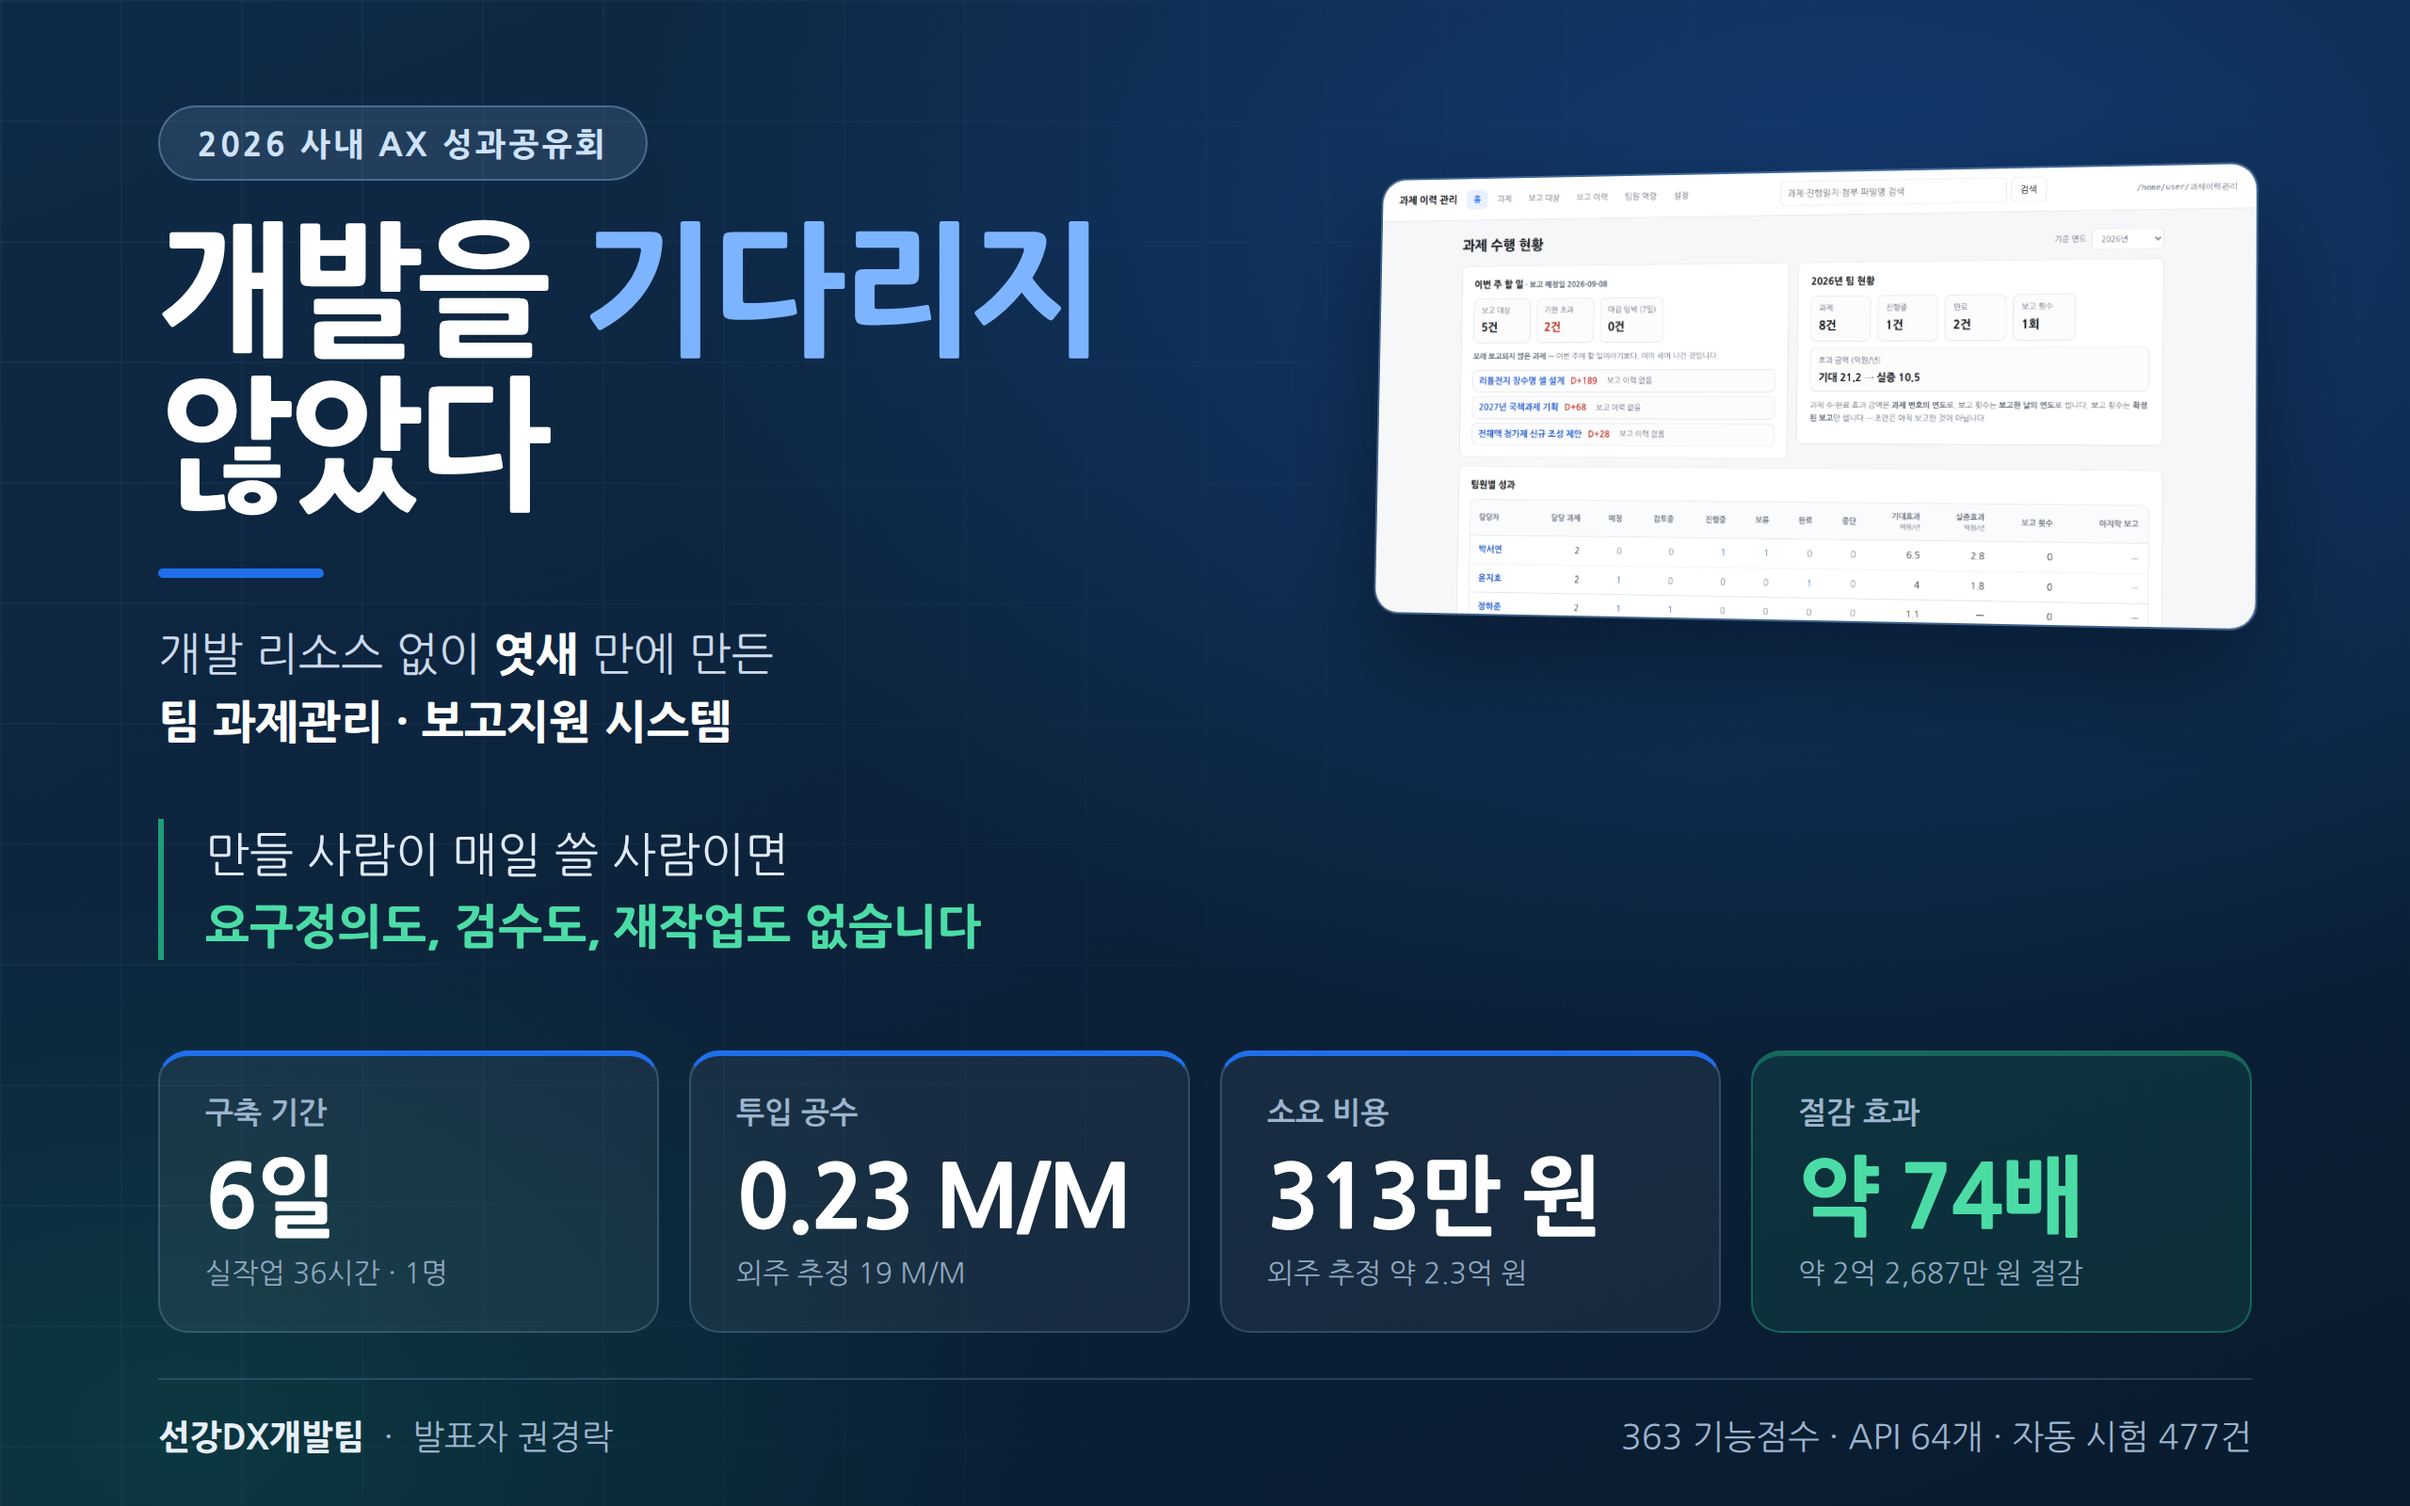
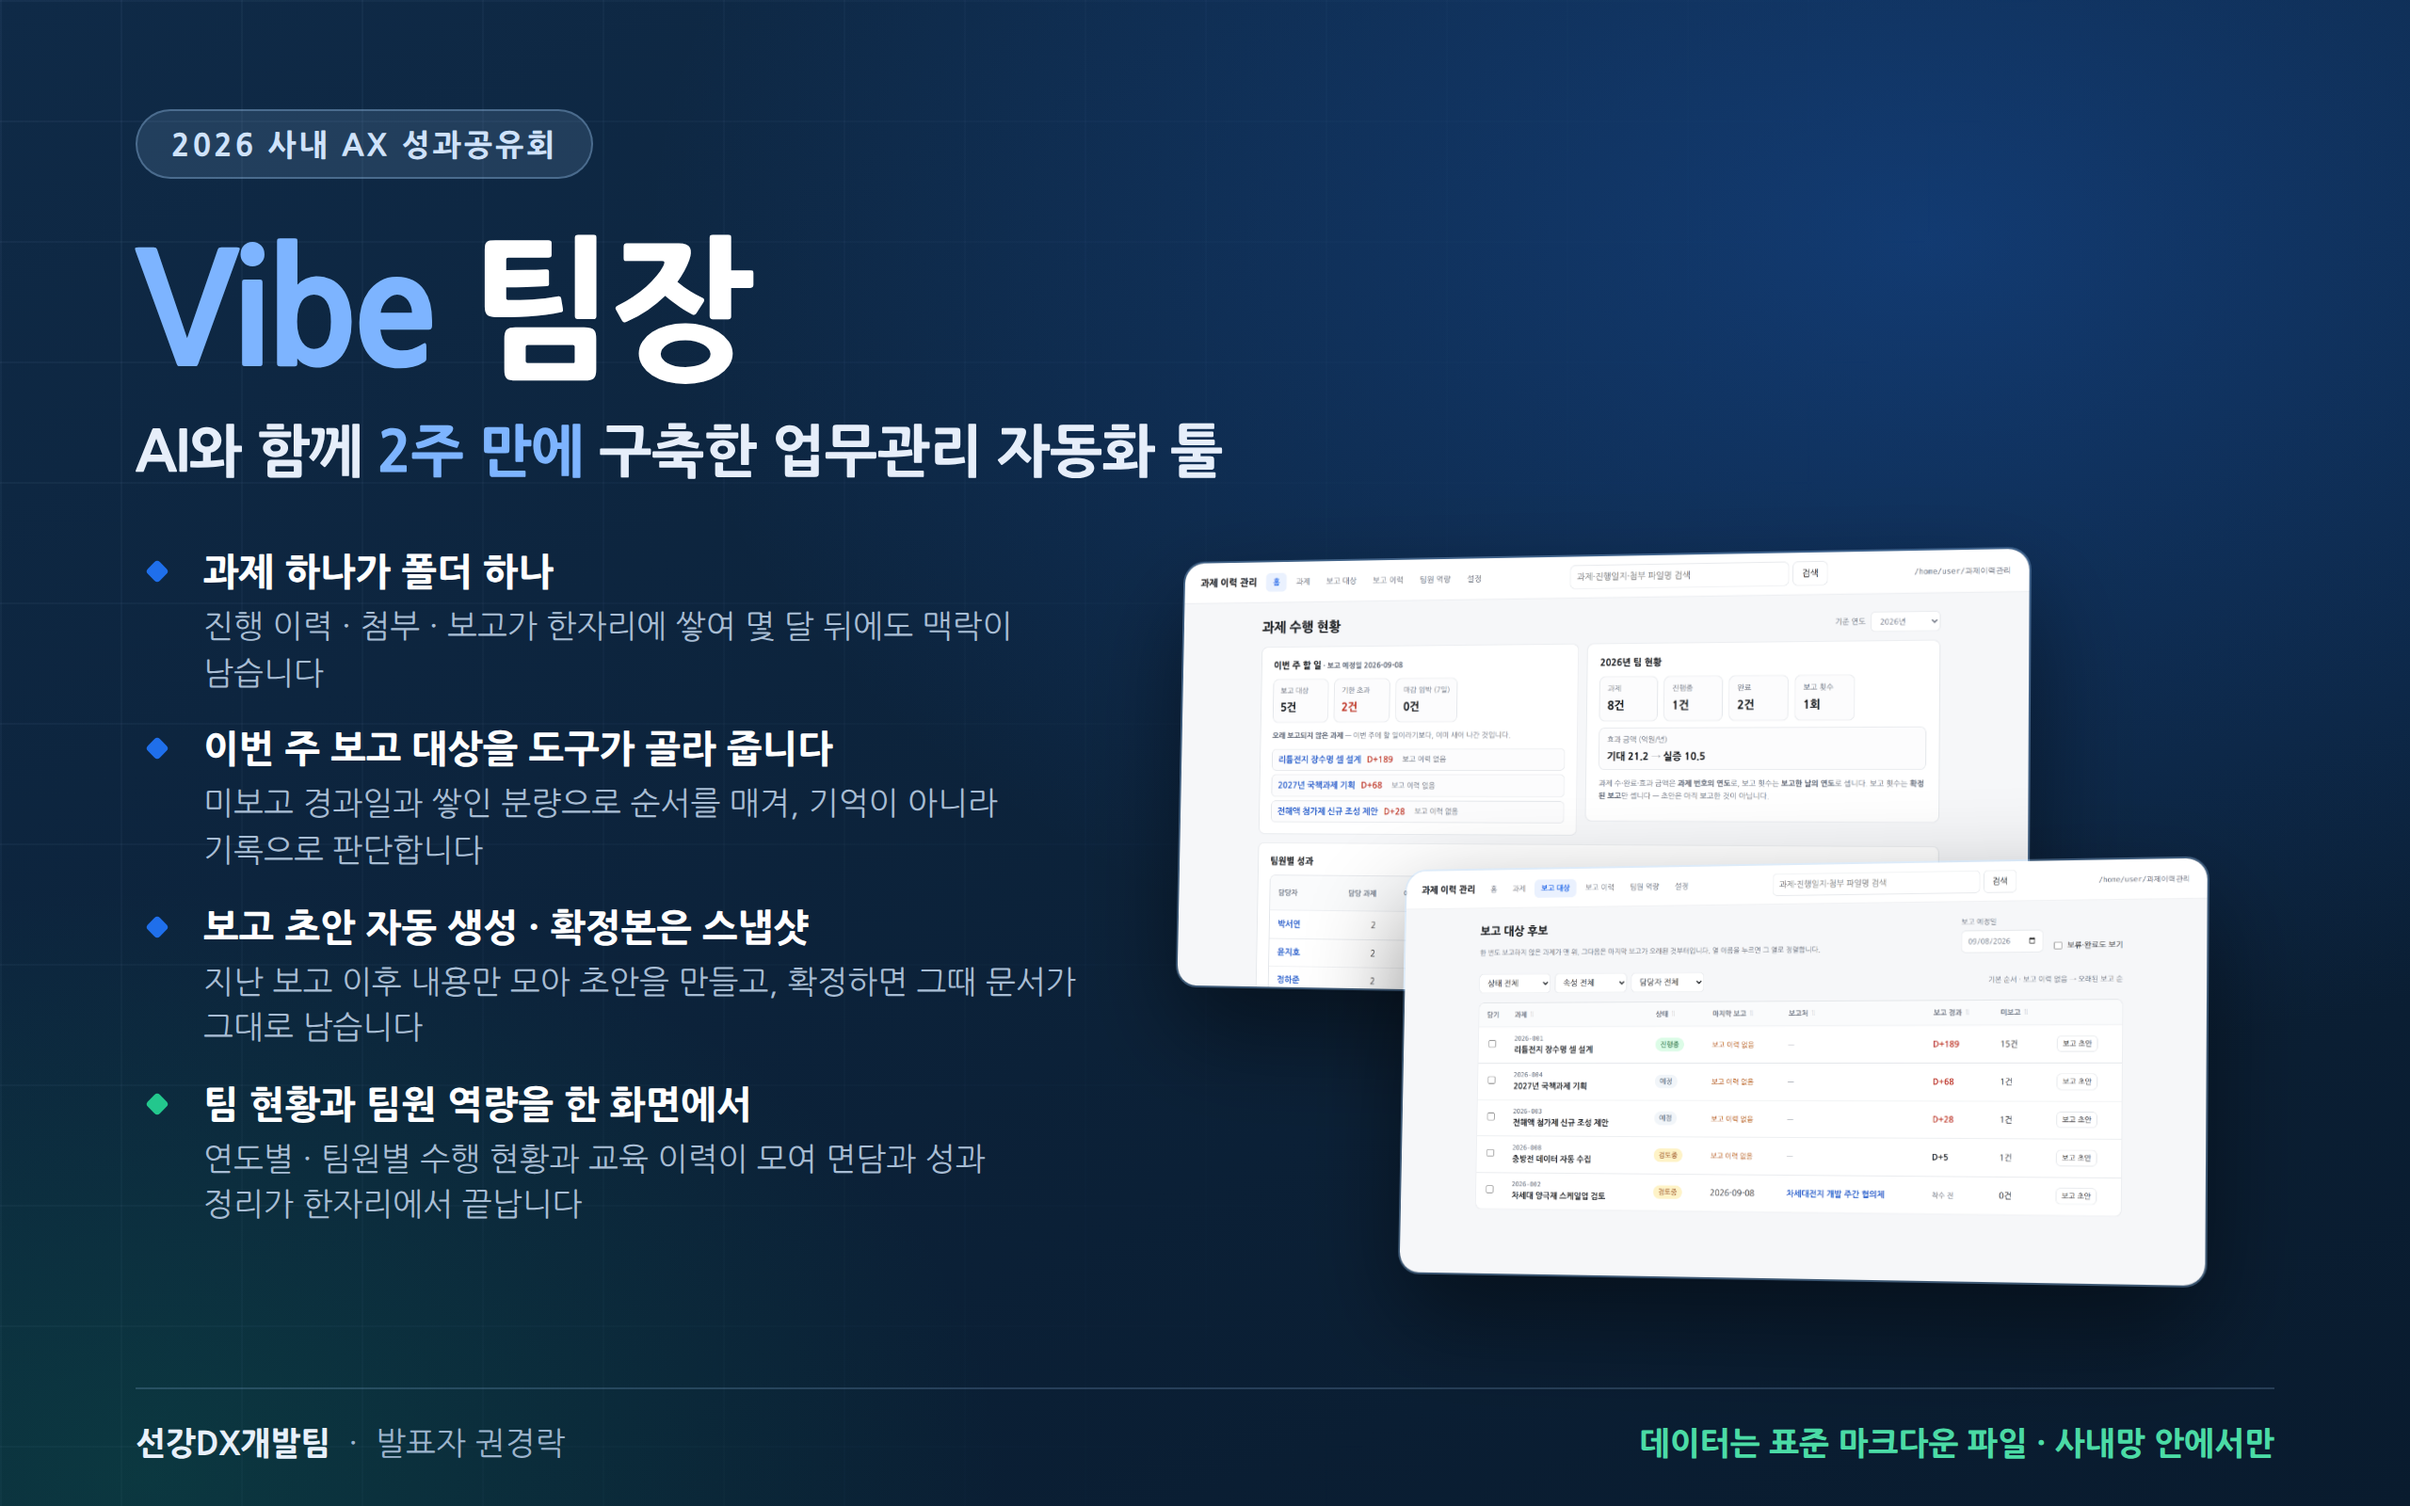
docs: 썸네일을 과제명·기능 중심으로 다시 만듦
발표자 요청 셋을 반영했다.

* 과제명을 "Vibe 팀장 : AI와 함께 2주 만에 구축한 업무관리 자동화 툴" 로.
  한 줄로 늘어놓으면 작게 줄였을 때 아무것도 읽히지 않아 두 층으로 나눴다 —
  "Vibe 팀장" 을 크게, 나머지를 그 아래 한 줄로. 두 줄로 나뉜 것 자체가 구분이라
  가운데 콜론은 뺐다(글자 크기가 커지면 홀로 떠 보인다).
* 수치 네 칸을 빼고 **구현 기능과 그래서 무엇이 달라지는가**를 네 줄로 적었다.
  포스터와 영상이 이미 숫자를 맡고 있고, 표지에서까지 수치가 앞서면
  무엇을 만들었는지가 뒤로 밀린다.
* 화면 갈무리를 둘로 — 홈(팀 수행 현황)과 보고 대상 후보를 앞뒤로 겹쳐 놓아
  "여러 화면이 있다"가 한눈에 보이게 했다. 겹치면 가려지는 설명 띠는 뺐다.

제목의 "2주"는 포스터·영상의 "엿새"와 다르다 — 발표자가 정한 과제명을 그대로 썼다.
맞추려면 thumbnail.html 의 .lede 한 줄만 고치면 된다는 것을 README 에 적어 두었다.

Claude-Session: https://claude.ai/code/session_01KbrZ6oT8PUdhoJBZtSNehr

diff --git a/docs/poster/thumbnail.html b/docs/poster/thumbnail.html
@@ -1,15 +1,14 @@
 <!-- AX 성과공유회 썸네일 (16:10). make_thumbnail.py 가 이 파일을 열어 갈무리한다. -->
 <meta charset="utf-8">
 <style>
-  @font-face { font-family: "Nanum"; src: local("NanumGothic"); }
   * { margin: 0; padding: 0; box-sizing: border-box; }
   body {
     width: 1280px; height: 800px; overflow: hidden;
     font-family: "NanumGothic", "맑은 고딕", "Malgun Gothic", sans-serif;
     color: #fff;
     background:
-      radial-gradient(1100px 700px at 78% 18%, rgba(31,111,235,.30), transparent 62%),
-      radial-gradient(760px 520px at 8% 96%, rgba(11,138,95,.22), transparent 60%),
+      radial-gradient(1100px 700px at 80% 16%, rgba(31,111,235,.30), transparent 62%),
+      radial-gradient(760px 520px at 6% 98%, rgba(11,138,95,.22), transparent 60%),
       linear-gradient(158deg, #0f2a47 0%, #091b2e 100%);
     position: relative;
   }
@@ -21,87 +20,103 @@
     background-size: 64px 64px;
     mask-image: linear-gradient(115deg, #000 0%, transparent 68%);
   }
-  .wrap { position: relative; padding: 66px 84px 0; height: 100%; display: flex; flex-direction: column; }
-  .top { display: flex; gap: 44px; align-items: flex-start; }
-  .left { width: 53%; flex: none; }
-  /* 오른쪽에 실제 화면을 놓는다 — 표지에서 "무엇을 만들었는지"가 한눈에 보여야 한다 */
-  .shot {
-    flex: 1; margin-top: 24px;
-    border-radius: 14px; overflow: hidden;
-    border: 1px solid rgba(156,195,238,.34);
-    box-shadow: 0 26px 60px rgba(0,0,0,.42);
-    transform: perspective(1400px) rotateY(-13deg) rotateX(3deg);
-  }
-  .shot img { display: block; width: 100%; }
+  .wrap { position: relative; height: 100%; padding: 58px 72px 0; display: flex; flex-direction: column; }
 
   .kicker {
     align-self: flex-start;
-    font-size: 17px; letter-spacing: .10em; font-weight: 700;
+    font-size: 16px; letter-spacing: .10em; font-weight: 700;
     color: #cfe2fa; background: rgba(156,195,238,.14);
     border: 1px solid rgba(156,195,238,.34);
-    padding: 9px 20px; border-radius: 999px;
+    padding: 8px 18px; border-radius: 999px;
   }
-  /* 한글은 단어 안에서 끊으면 읽기가 나빠진다 — keep-all 로 어절을 지킨다 */
-  h1 { font-size: 76px; font-weight: 800; letter-spacing: -.035em; line-height: 1.08;
-       margin-top: 26px; word-break: keep-all; }
-  h1 .accent { color: #7db4ff; }
-  .rule { width: 88px; height: 5px; background: #1f6feb; border-radius: 3px; margin: 26px 0 22px; }
-  .sub { font-size: 24px; line-height: 1.5; color: #cbd9ea; font-weight: 400; }
-  .sub b { color: #fff; font-weight: 700; }
 
-  /* 표지에서 딱 한 문장만 기억된다면 이것이어야 한다 */
-  .quote {
-    margin-top: 34px; padding-left: 22px;
-    border-left: 3px solid rgba(35,199,141,.75);
-    font-size: 25px; line-height: 1.5; color: #dfe9f5; font-weight: 400;
-    word-break: keep-all;
+  /* 제목은 두 층으로 나눈다 — 한 줄로 길게 늘어놓으면 작게 줄였을 때 아무것도 안 읽힌다 */
+  h1 { font-size: 82px; font-weight: 800; letter-spacing: -.035em; line-height: 1.0; margin-top: 26px; }
+  h1 .vibe { color: #7db4ff; }
+  .lede {
+    font-size: 30px; font-weight: 700; color: #e6eefa; margin-top: 18px;
+    letter-spacing: -.01em; word-break: keep-all;
   }
-  .quote b { color: #4bdca6; font-weight: 700; }
+  .lede b { color: #7db4ff; }
 
-  .stats { display: flex; gap: 16px; margin-top: auto; margin-bottom: 24px; }
-  .stat {
-    flex: 1; padding: 20px 24px 22px;
-    background: rgba(255,255,255,.055); border: 1px solid rgba(156,195,238,.22);
-    border-radius: 16px; border-top: 3px solid #1f6feb;
+  .body { display: flex; gap: 40px; margin-top: 34px; flex: 1; }
+
+  /* 왼쪽 — 무엇을 만들었고 무엇이 달라지는가 */
+  .points { width: 44%; flex: none; display: flex; flex-direction: column; gap: 15px; }
+  .point { display: grid; grid-template-columns: 24px 1fr; gap: 12px; align-items: start; }
+  .point::before {
+    content: ""; width: 9px; height: 9px; margin: 9px 0 0 7px;
+    border-radius: 2px; background: #1f6feb; transform: rotate(45deg);
   }
-  .stat.hi { border-top-color: #23c78d; background: rgba(35,199,141,.11); border-color: rgba(35,199,141,.36); }
-  .stat .label { font-size: 16px; color: #9db4cd; font-weight: 600; }
-  .stat .value { font-size: 46px; font-weight: 800; letter-spacing: -.02em; margin-top: 8px; }
-  .stat.hi .value { color: #4bdca6; }
-  .stat .note { font-size: 15px; color: #8fa6bf; margin-top: 7px; }
+  .point.good::before { background: #23c78d; }
+  .point .what { font-size: 20px; font-weight: 700; color: #fff; line-height: 1.35; word-break: keep-all; }
+  .point .so { font-size: 17px; color: #a8bdd4; line-height: 1.45; margin-top: 3px; word-break: keep-all; }
+
+  /* 오른쪽 — 실제 화면 두 장. 앞뒤로 겹쳐 놓아 "여러 화면이 있다"가 한눈에 보이게 */
+  .shots { flex: 1; position: relative; }
+  .shot {
+    position: absolute; border-radius: 12px; overflow: hidden;
+    border: 1px solid rgba(156,195,238,.34);
+    box-shadow: 0 24px 56px rgba(0,0,0,.46);
+  }
+  .shot img { display: block; width: 100%; }
+  .shot-a { top: 4px;   left: 0;   width: 78%; transform: perspective(1600px) rotateY(-14deg) rotateX(3deg); }
+  .shot-b { top: 168px; left: 20%; width: 74%; transform: perspective(1600px) rotateY(-14deg) rotateX(3deg); }
 
   .foot {
+    margin-top: auto;
     display: flex; align-items: center; justify-content: space-between;
-    padding: 20px 0 26px; border-top: 1px solid rgba(156,195,238,.20);
-    font-size: 18px; color: #9db4cd;
+    padding: 18px 0 24px; border-top: 1px solid rgba(156,195,238,.20);
+    font-size: 17px; color: #9db4cd;
   }
   .foot b { color: #e8f0fa; font-weight: 700; }
+  .foot .tag { color: #4bdca6; font-weight: 700; }
 </style>
 <div class="wrap">
-  <div class="top">
-    <div class="left">
-      <span class="kicker">2026 사내 AX 성과공유회</span>
-      <h1>개발을 <span class="accent">기다리지</span> 않았다</h1>
-      <div class="rule"></div>
-      <p class="sub">
-        개발 리소스 없이 <b>엿새</b> 만에 만든<br><b>팀 과제관리 · 보고지원 시스템</b>
-      </p>
-      <p class="quote">
-        만들 사람이 매일 쓸 사람이면<br><b>요구정의도, 검수도, 재작업도 없습니다</b>
-      </p>
-    </div>
-    <div class="shot"><img src="screen-home.png" alt="홈 화면"></div>
-  </div>
+  <span class="kicker">2026 사내 AX 성과공유회</span>
+  <h1><span class="vibe">Vibe</span> 팀장</h1>
+  <p class="lede">AI와 함께 <b>2주 만에</b> 구축한 업무관리 자동화 툴</p>
 
-  <div class="stats">
-    <div class="stat"><div class="label">구축 기간</div><div class="value">6일</div><div class="note">실작업 36시간 · 1명</div></div>
-    <div class="stat"><div class="label">투입 공수</div><div class="value">0.23 M/M</div><div class="note">외주 추정 19 M/M</div></div>
-    <div class="stat"><div class="label">소요 비용</div><div class="value">313만 원</div><div class="note">외주 추정 약 2.3억 원</div></div>
-    <div class="stat hi"><div class="label">절감 효과</div><div class="value">약 74배</div><div class="note">약 2억 2,687만 원 절감</div></div>
+  <div class="body">
+    <div class="points">
+      <div class="point">
+        <div>
+          <div class="what">과제 하나가 폴더 하나</div>
+          <div class="so">진행 이력 · 첨부 · 보고가 한자리에 쌓여 몇 달 뒤에도 맥락이 남습니다</div>
+        </div>
+      </div>
+      <div class="point">
+        <div>
+          <div class="what">이번 주 보고 대상을 도구가 골라 줍니다</div>
+          <div class="so">미보고 경과일과 쌓인 분량으로 순서를 매겨, 기억이 아니라 기록으로 판단합니다</div>
+        </div>
+      </div>
+      <div class="point">
+        <div>
+          <div class="what">보고 초안 자동 생성 · 확정본은 스냅샷</div>
+          <div class="so">지난 보고 이후 내용만 모아 초안을 만들고, 확정하면 그때 문서가 그대로 남습니다</div>
+        </div>
+      </div>
+      <div class="point good">
+        <div>
+          <div class="what">팀 현황과 팀원 역량을 한 화면에서</div>
+          <div class="so">연도별 · 팀원별 수행 현황과 교육 이력이 모여 면담과 성과 정리가 한자리에서 끝납니다</div>
+        </div>
+      </div>
+    </div>
+
+    <div class="shots">
+      <div class="shot shot-a">
+        <img src="screen-home.png" alt="홈 — 팀 수행 현황">
+      </div>
+      <div class="shot shot-b">
+        <img src="screen-reports.png" alt="보고 대상 후보">
+      </div>
+    </div>
   </div>
 
   <div class="foot">
     <span><b>선강DX개발팀</b> &nbsp;·&nbsp; 발표자 권경락</span>
-    <span>363 기능점수 · API 64개 · 자동 시험 477건</span>
+    <span class="tag">데이터는 표준 마크다운 파일 · 사내망 안에서만</span>
   </div>
 </div>

diff --git a/docs/poster/README.md b/docs/poster/README.md
@@ -9,6 +9,7 @@
 | `make_poster.py` | 포스터를 만드는 스크립트. 수치를 고칠 일이 생기면 이 파일의 `DATA` 만 고친다 |
 | `screen-*.png` | 포스터·썸네일에 들어간 실제 화면 갈무리 — 홈 · 과제 목록 · 보고 대상 후보 · 팀원 역량 (데모 데이터) |
 | `AX성과공유회_썸네일_16-10.png` | **16:10 썸네일** (2560×1600). 목록·표지 슬라이드용 |
+| | 과제명 **"Vibe 팀장 : AI와 함께 2주 만에 구축한 업무관리 자동화 툴"** |
 | `make_thumbnail.py` · `thumbnail.html` | 썸네일을 만드는 스크립트와 원본 |
 | `video/` | **소개 영상** (약 1분 30초, 소리 없음). 아래 참고 |
 
@@ -36,9 +37,16 @@ MD_MGMT_VAULT=<데모 vault> python -m uvicorn app.main:app --app-dir backend --
 
 ## 썸네일
 
-16:10 (2560×1600). 목록에 작게 걸려도 **제목과 네 숫자가 읽히는 것**이 유일한 요구다.
+16:10 (2560×1600). 목록에 작게 걸려도 **제목과 네 줄의 굵은 글씨가 읽히는 것**이 유일한 요구다.
 HTML 을 브라우저로 갈무리한다 — 도형으로 짜는 것보다 여백·자간을 잡기 쉽고,
 색과 글꼴이 포스터와 같은 값을 쓴다.
+
+담는 것은 넷이다 — ① 자리 ② 과제명 ③ **구현 기능과 그래서 무엇이 달라지는가** 네 줄
+④ 실제 화면 두 장(홈 · 보고 대상 후보). 수치는 넣지 않는다. 포스터와 영상이 이미
+숫자를 맡고 있고, 표지에서까지 수치가 앞서면 **무엇을 만들었는지**가 뒤로 밀린다.
+
+> **제목의 "2주"는 포스터·영상의 "엿새"와 다르다.** 발표자가 정한 과제명을 그대로 쓴 것이다.
+> 맞추고 싶으면 `thumbnail.html` 의 `.lede` 한 줄만 고치면 된다.
 
 ```bash
 python make_thumbnail.py            # 2560x1600 (@2x)
